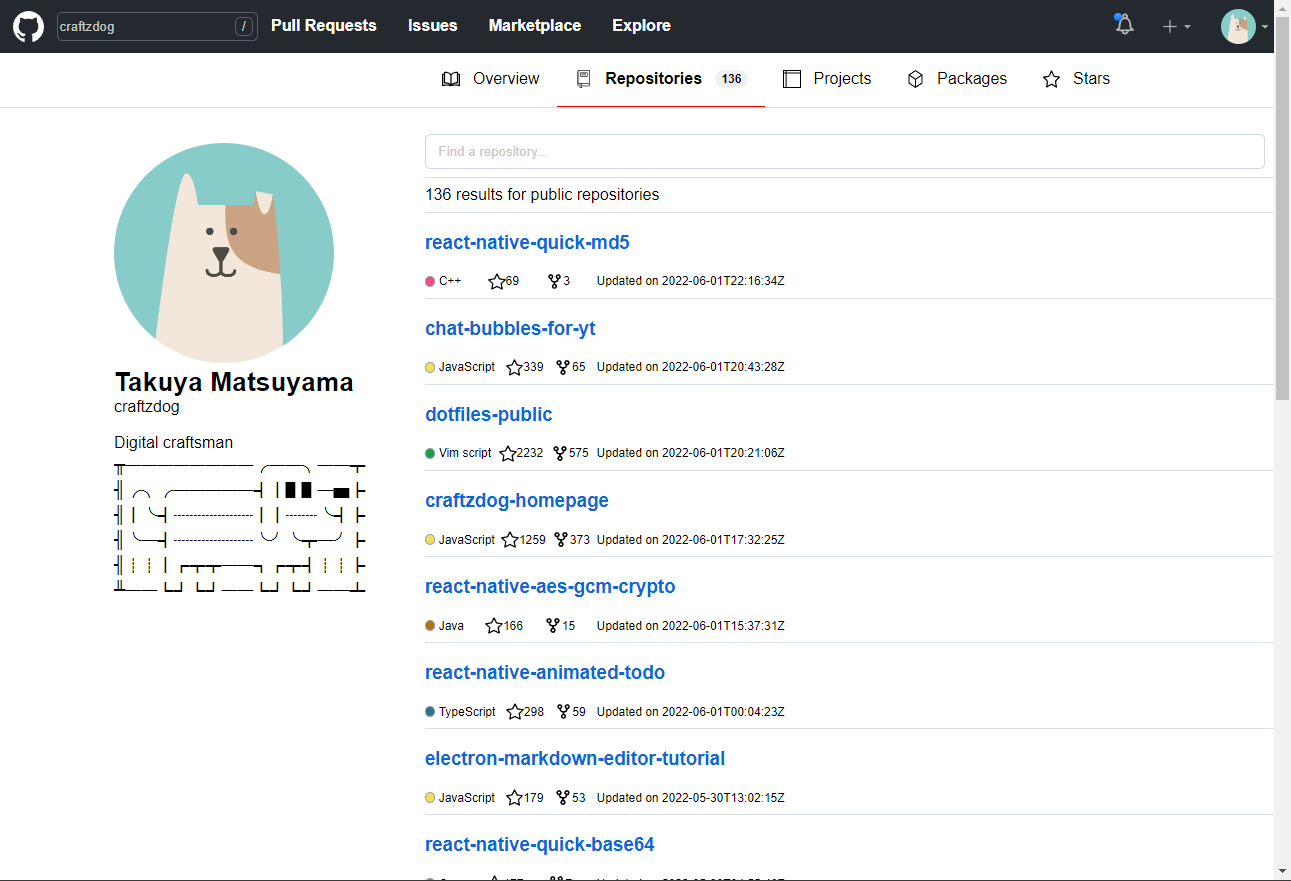
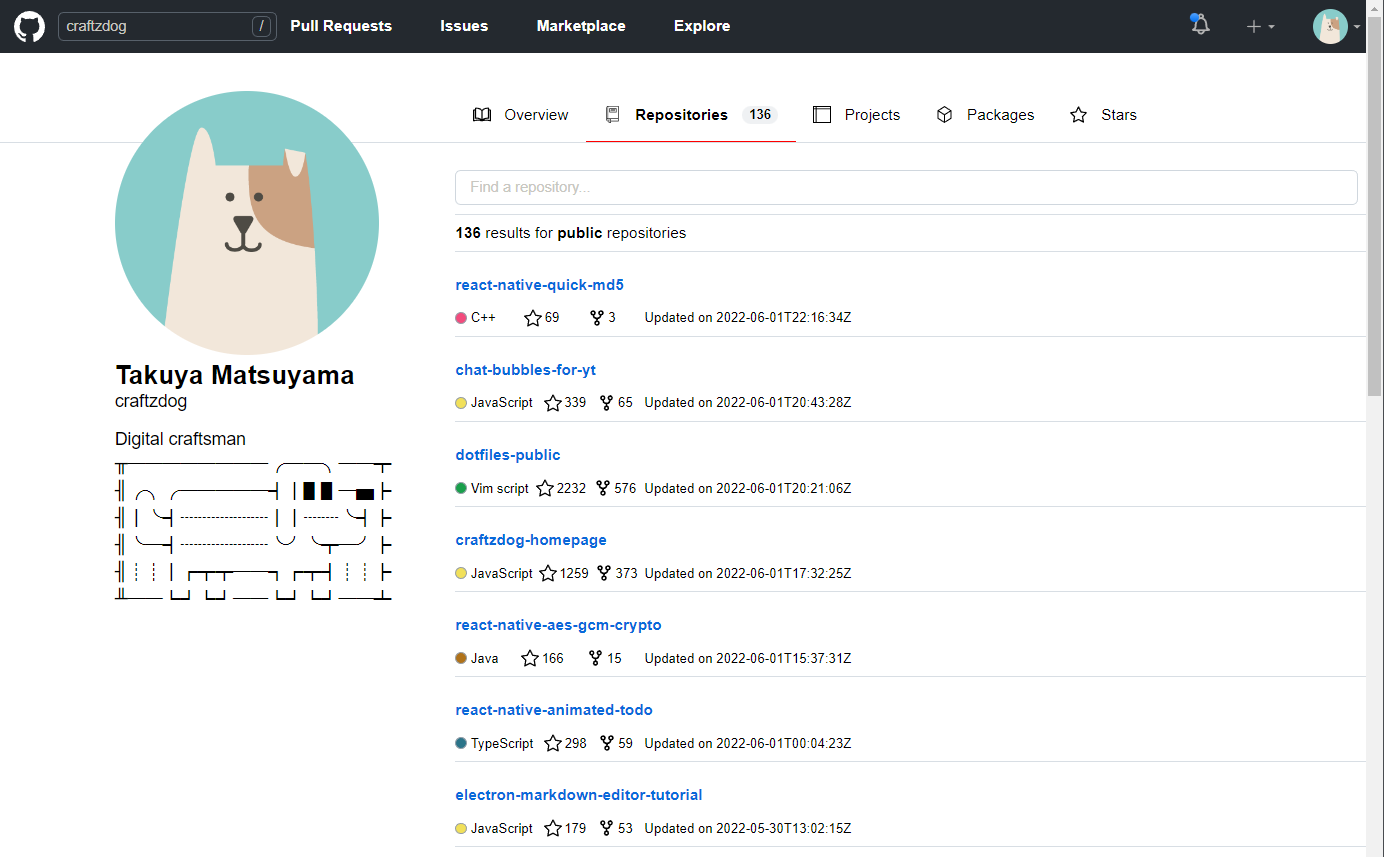
adding screenshot for README

diff --git a/styles/results.css b/styles/results.css
@@ -10,15 +10,13 @@
     }
 }
 
-h3 {
-    color: #0969DA;
-}
+
 .profile {
     width: 17em;
     margin-top: 4vh;
     justify-self: end;
     padding-right: 3vw;
-    /* margin-left: 2em; */
+    margin-top: -6vh;
 }
 @media screen and (max-width: 700px) {
     .profile {
@@ -28,6 +26,7 @@ h3 {
         justify-content: center;
         flex-direction: column;
         margin-left: none !important;
+        margin-top: 0 !important;
     }
     .bio {
         width: 25vw;
@@ -35,7 +34,7 @@ h3 {
 }
 
 .profile > img {
-    height: 25vh;
+    height: 30vh;
     border-radius: 50%;
 }
 
@@ -56,6 +55,18 @@ h3 {
     width: 30em;
     justify-content: space-between;
     font-size: 12px;
+}
+
+.repo-title {
+    font-size: 14px;
+    font-weight: bold;
+    color: #0969DA;
+    padding-top: 1em;
+    padding-bottom: 1em;
+}
+
+.repo-count {
+    font-size: 14px;
 }
 
 #language-icon {
@@ -101,7 +112,11 @@ h3 {
     margin-right: 1vw;
 }
 
-@media screen and (max-width: 700px) {
+.repo-nav-titles {
+    font-size: 14px;
+}
+
+@media screen and (max-width: 820px) {
     .repo-nav-titles {
         display: none;
     }
@@ -115,6 +130,7 @@ h3 {
 
 .repo-subtitle-icon {
     height: 2vh;
+    margin-right: 0.2em;
 }
 
 #repo-search {

diff --git a/js/app.js b/js/app.js
@@ -73,7 +73,7 @@ class App extends HTMLElement {
                     this.shadowRoot.getElementById("header-avatar").src = data.avatar_url
                     this.shadowRoot.getElementById("list-length").innerHTML = `
                         <hr>
-                        <div>${data.public_repos} results for public repositories</div>
+                        <div class="repo-count"><b>${data.public_repos}</b> results for <b>public</b> repositories</div>
                         <hr>
                     `
                     this.shadowRoot.getElementById("name").innerHTML = data.name
@@ -187,7 +187,7 @@ class App extends HTMLElement {
                     ${data.slice(0, 20).map((repo) => (
                         `
                         <link rel="stylesheet" type="text/css" href="languages.css" media="screen" />
-                        <h3>${repo.name}</h3>
+                        <div class="repo-title">${repo.name}</div>
                         <div class="repo-info">
                             <div class="repo-subtitles">
                                 <div class=${languageColor(repo.language)} id="language-icon"></div>

diff --git a/styles/header.css b/styles/header.css
@@ -13,7 +13,7 @@ html, body  {
     align-items: center;
     background-color: #24292f;
     color: white;
-    margin: 0;
+    margin-bottom: 4vh;
     height: 6vh; 
 }
 
@@ -47,6 +47,7 @@ html, body  {
     flex-direction: row;
     justify-content: space-between;
     width: 45em;
+    font-size: 14px;
 }
 
 .hamburger {
@@ -80,6 +81,7 @@ html, body  {
     background-color: #24292f;
     border: none;
     color: #c8c7c1;
+    margin-left: 0.3em;
 }
 
 input:-webkit-autofill,
